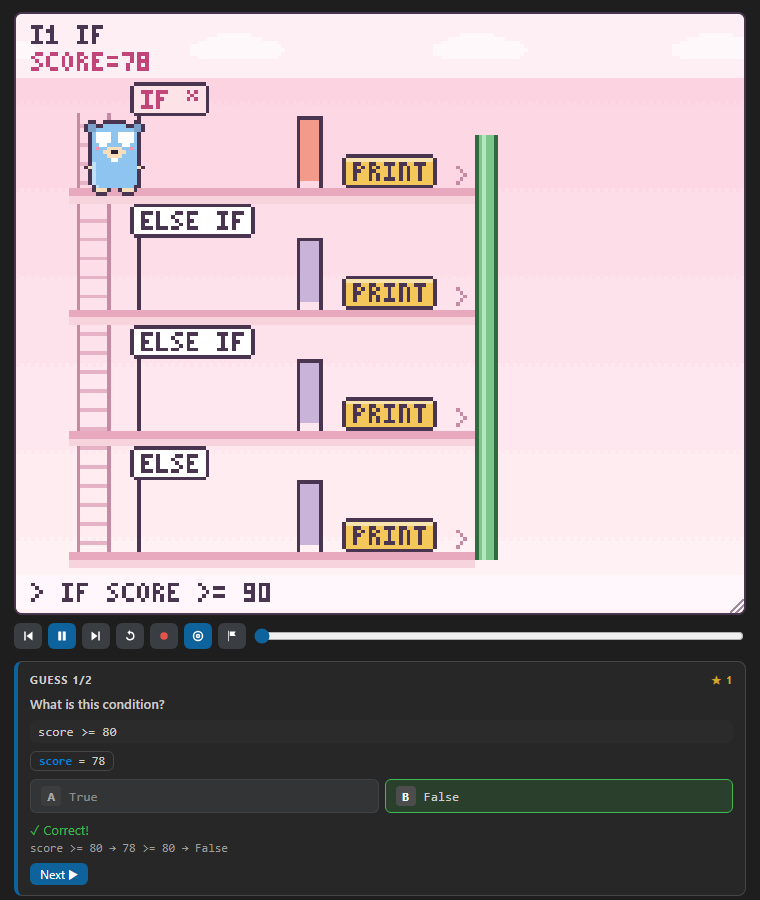
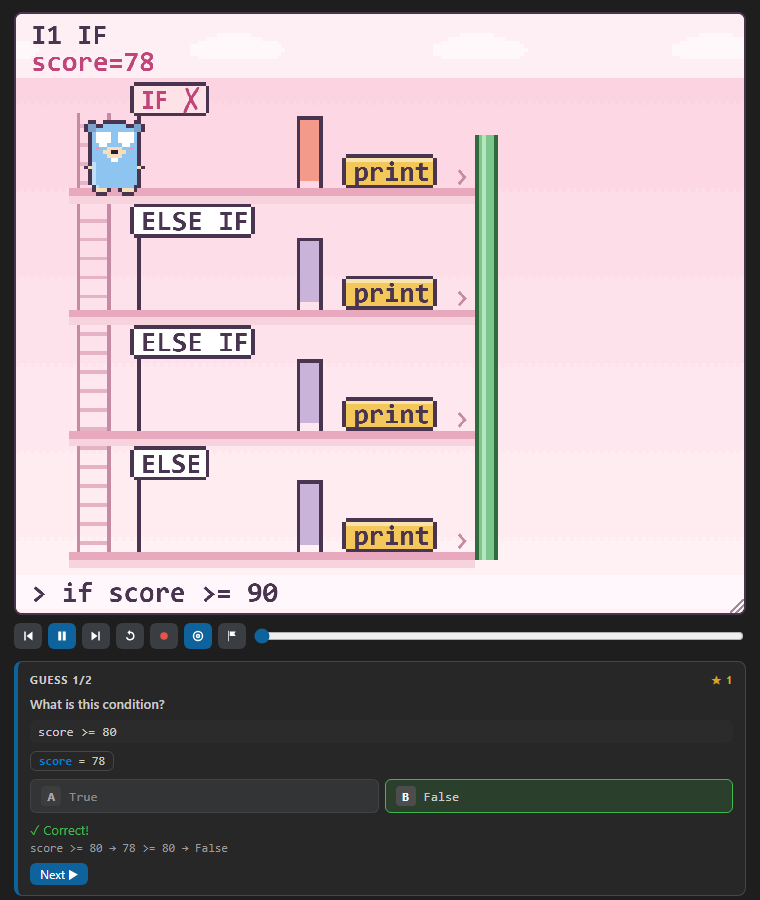
Smooth, readable text on every stage
Cubes, the Gopher and backgrounds stay pixel art, but stage text is now
drawn at full resolution in a monospace font after the world is scaled
up, and code keeps its own letter case. Shapes drawn over a text later
still hide it, so the drawing order is unchanged. Recordings follow:
GIFs are 720px wide with a palette that keeps colors true, and the demo
GIFs and screenshots are re-recorded.

diff --git a/vscode-extension/media/pixel.js b/vscode-extension/media/pixel.js
@@ -102,6 +102,10 @@
 
   const textW = s => Math.max(0, s.length * 4 - 1);
   function text(c, s, x, y, col) {
+    if (defer(c, s, x, y, col, 1)) return;
+    pixelText(c, s, x, y, col);
+  }
+  function pixelText(c, s, x, y, col) {
     c.fillStyle = col;
     s = s.toUpperCase();
     for (let i = 0; i < s.length; i++) {
@@ -111,9 +115,9 @@
     }
   }
   const textCenter = (c, s, cx, y, col) => text(c, s, Math.round(cx - textW(s) / 2), y, col);
-  /** Teks dalam huruf besar tanpa karakter yang tidak ada di font, dipotong ".." bila lebih dari max karakter. */
+  /** Teks satu baris (huruf besar/kecil dipertahankan), dipotong ".." bila lebih dari max karakter. */
   function fit(s, max) {
-    s = [...String(s).toUpperCase()].map(ch => (FONT[ch] ? ch : ch === '\t' ? ' ' : '')).join('').replace(/\s+/g, ' ').trim();
+    s = [...String(s)].map(ch => (FONT[ch.toUpperCase()] || ch > ' ' ? ch : ch === '\t' ? ' ' : '')).join('').replace(/\s+/g, ' ').trim();
     return max != null && s.length > max ? s.slice(0, Math.max(1, max - 2)) + '..' : s;
   }
 
@@ -198,6 +202,7 @@
     rect(x, 0, 0, w, h, col); rect(x, 1, 1, w - 2, h - 2, '#fff8fb');
     rect(x, 2, 2, w - 4, 1, col); rect(x, 2, h - 3, w - 4, 1, col);
     text(x, label, 4, 4, col);
+    c.__stamp = { label, col }; // drawImage ke canvas yang mendukung teks halus: label ditulis ulang halus
     return (stamps[key] = c);
   }
 
@@ -210,12 +215,16 @@
   function paintWorld(c, W, H, GY) {
     c.clearRect(0, 0, W, H);
     c.canvas.__theme = { kind: 'world', GY };
+    c.canvas.__texts = [];
   }
 
   /** Gambar latar panggung setiap frame: tema (bergerak) di bawah isi canvas latar. */
   function drawBg(w, bg) {
+    const dst = w.canvas.__texts;
+    if (dst) dst.length = 0; // latar = awal frame: teks frame sebelumnya yang belum dipresent dibuang
     if (G.theme) G.theme.drawBg(w, bg);
     else w.drawImage(bg, 0, 0);
+    if (dst && bg.__texts) for (const t of bg.__texts) dst.push(t); // teks latar (sudah di koordinat dunia)
   }
 
   /** Posisi pada jalur berbelok (daftar titik) di t = 0..1, menurut panjang lintasan. */
@@ -262,8 +271,145 @@
       ctx.fillRect(0, 0, cw, ch);
     }
     ctx.drawImage(world, 0, 0, worldW, worldH, 0, 0, cw, ch);
+    flushTexts(ctx, world, k, 0, 0, 1);
     return k;
   }
+
+  // ---------- teks halus ----------
+  // Keputusan user 2026-10-12: tulisan di panggung jangan terlalu pixel supaya mudah dibaca. Kubus, Gopher, dan
+  // latar tetap pixel art; teks yang ditulis ke canvas dunia dicatat (posisi, warna, alpha, transform) lalu
+  // digambar dengan font monospace beresolusi penuh oleh present(), sesudah dunia diperbesar. Lebar satu huruf
+  // monospace (~0.55em) hampir sama dengan lebar huruf pixel (4 piksel dunia), jadi tata letak tidak berubah.
+  // Canvas lain (cache sprite kecil) tetap memakai font pixel.
+  const MONO = 'Consolas, "Cascadia Mono", "SF Mono", Menlo, "DejaVu Sans Mono", monospace';
+
+  /** Catat teks untuk lapisan halus bila canvas c mendukungnya (dunia panggung atau latarnya). */
+  function defer(c, s, x, y, col, size) {
+    const list = c.canvas && c.canvas.__texts;
+    if (!list) return false;
+    const m = c.getTransform();
+    list.push({ s: String(s), x, y, col, size, a: c.globalAlpha, m, box: devBox(m, x, y, textW(String(s)) * size * 1.06, 5 * size) });
+    return true;
+  }
+
+  /** Kotak (x, y, w, h) di transform m (tanpa rotasi) dalam koordinat canvas: [x0, y0, x1, y1]. */
+  function devBox(m, x, y, w, h) {
+    const x0 = m.a * x + m.c * y + m.e, y0 = m.b * x + m.d * y + m.f, x1 = x0 + m.a * w, y1 = y0 + m.d * h;
+    return [Math.min(x0, x1), Math.min(y0, y1), Math.max(x0, x1), Math.max(y0, y1)];
+  }
+
+  // Urutan gambar: teks halus digambar paling akhir, jadi kotak atau sprite yang digambar SESUDAH sebuah teks
+  // dan menimpanya (tiket yang lewat, Gopher, lapisan peredup) dicatat sebagai penutup teks itu. Saat teks
+  // ditulis, bagian yang tertutup dihapus (sprite: sesuai bentuk pikselnya), seolah teks ada di bawahnya.
+  function occlude(c, x, y, w, h, img, src) {
+    const list = c.canvas.__texts;
+    if (!list || !list.length || !(Math.abs(w) >= 1 && Math.abs(h) >= 1)) return;
+    const b = devBox(c.getTransform(), x, y, w, h);
+    for (const t of list) {
+      const q = t.box;
+      if (!q || q[0] >= b[2] || b[0] >= q[2] || q[1] >= b[3] || b[1] >= q[3]) continue;
+      (t.occ || (t.occ = [])).push({ b, img, src, a: c.globalAlpha });
+    }
+  }
+  const rawFillRect = CanvasRenderingContext2D.prototype.fillRect;
+  CanvasRenderingContext2D.prototype.fillRect = function (x, y, w, h) {
+    if (this.canvas.__texts) occlude(this, x, y, w, h);
+    return rawFillRect.call(this, x, y, w, h);
+  };
+
+  /** Teks yang sebagian tertutup: tulis di canvas sementara, hapus bagian penutupnya, lalu tempel. */
+  let tmpCv = null;
+  function smoothOccluded(ctx, t, k, ox, oy, alpha) {
+    const q = t.box, M = 3, x0 = Math.floor(q[0] - M), y0 = Math.floor(q[1] - M);
+    const w = Math.ceil((q[2] - q[0] + 2 * M) * k), h = Math.ceil((q[3] - q[1] + 2 * M) * k);
+    if (!tmpCv) tmpCv = document.createElement('canvas');
+    if (tmpCv.width < w) tmpCv.width = w;
+    if (tmpCv.height < h) tmpCv.height = h;
+    const x = tmpCv.getContext('2d');
+    x.setTransform(1, 0, 0, 1, 0, 0);
+    x.globalCompositeOperation = 'source-over';
+    x.clearRect(0, 0, w, h);
+    smooth(x, t, k, -x0 * k, -y0 * k, 1);
+    x.globalCompositeOperation = 'destination-out';
+    x.imageSmoothingEnabled = false;
+    x.setTransform(k, 0, 0, k, -x0 * k, -y0 * k);
+    for (const o of t.occ) {
+      x.globalAlpha = o.a;
+      const [bx0, by0, bx1, by1] = o.b;
+      if (o.img) rawDrawImage.call(x, o.img, ...o.src, bx0, by0, bx1 - bx0, by1 - by0);
+      else x.fillRect(bx0, by0, bx1 - bx0, by1 - by0);
+    }
+    x.globalCompositeOperation = 'source-over';
+    ctx.setTransform(1, 0, 0, 1, 0, 0);
+    ctx.globalAlpha = alpha;
+    rawDrawImage.call(ctx, tmpCv, 0, 0, w, h, ox + x0 * k, oy + y0 * k, w, h);
+  }
+
+  /** Gambar satu teks halus: posisi dunia (x, y = atas huruf) di transform m, diperbesar k, digeser (ox, oy). */
+  function smooth(ctx, t, k, ox, oy, alpha) {
+    const m = t.m;
+    ctx.setTransform(m.a * k, m.b * k, m.c * k, m.d * k, ox + m.e * k, oy + m.f * k);
+    ctx.globalAlpha = t.a * alpha;
+    ctx.fillStyle = t.col;
+    ctx.font = `bold ${7.4 * t.size}px ${MONO}`;
+    const want = textW(t.s) * t.size * 1.06, got = ctx.measureText(t.s).width;
+    ctx.translate(t.x, t.y + 5 * t.size);
+    if (got > want && got > 0) ctx.scale(want / got, 1); // teks yang lebih lebar dari kotaknya dipadatkan
+    ctx.fillText(t.s, 0, 0);
+  }
+
+  /** Teks halus t di transform ctx sekarang (untuk perekam). */
+  function drawText(ctx, t) {
+    ctx.save();
+    smooth(ctx, Object.assign({}, t, { m: ctx.getTransform() }), 1, 0, 0, 1);
+    ctx.restore();
+  }
+
+  /** Tulis semua teks halus milik canvas dunia src ke ctx (dunia digambar dengan skala k di (ox, oy)). */
+  function flushTexts(ctx, src, k, ox, oy, alpha) {
+    const list = src.__texts;
+    src.__texts = [];
+    if (!list || !list.length) return;
+    ctx.save();
+    for (const t of list) {
+      if (t.occ) smoothOccluded(ctx, t, k, ox, oy, alpha);
+      else smooth(ctx, t, k, ox, oy, alpha);
+    }
+    ctx.restore();
+  }
+
+  // Stempel (DONE!, PANIC!) digambar dengan drawImage: di canvas yang mendukung teks halus, labelnya ditulis
+  // ulang halus di atas stempel (stempel memakai bingkai pixel yang sama).
+  const rawDrawImage = CanvasRenderingContext2D.prototype.drawImage;
+  CanvasRenderingContext2D.prototype.drawImage = function (img, ...a) {
+    if (this.canvas.__texts && a.length >= 2) {
+      const n = a.length, src = n === 8 ? a.slice(0, 4) : [0, 0, img.width, img.height];
+      occlude(this, n === 8 ? a[4] : a[0], n === 8 ? a[5] : a[1], n === 8 ? a[6] : n === 4 ? a[2] : img.width, n === 8 ? a[7] : n === 4 ? a[3] : img.height, img, src);
+    }
+    const st = img && img.__stamp;
+    const hiRes = st && !this.canvas.__texts && this.canvas.__k; // canvas panggung (sudah diperbesar)
+    if (!st || (!this.canvas.__texts && !hiRes)) return rawDrawImage.call(this, img, ...a);
+    const dx = a.length === 8 ? a[4] : a[0], dy = a.length === 8 ? a[5] : a[1];
+    const dw = a.length === 8 ? a[6] : a.length === 4 ? a[2] : img.width;
+    rawDrawImage.call(this, plainStamp(img), ...a);
+    const sc = dw / img.width;
+    const t = { s: st.label, x: dx + 4 * sc, y: dy + 4 * sc, col: st.col, size: sc, a: this.globalAlpha, m: this.getTransform() };
+    if (this.canvas.__texts) this.canvas.__texts.push(t);
+    else { this.save(); smooth(this, Object.assign(t, { m: new DOMMatrix() }), 1, 0, 0, 1); this.restore(); }
+  };
+  /** Stempel tanpa tulisan (bingkai saja) untuk ditimpa teks halus. */
+  function plainStamp(img) {
+    if (img.__plain) return img.__plain;
+    const c = document.createElement('canvas');
+    c.width = img.width; c.height = img.height;
+    const x = c.getContext('2d'), col = img.__stamp.col, w = img.width, h = img.height;
+    rect(x, 0, 0, w, h, col); rect(x, 1, 1, w - 2, h - 2, '#fff8fb');
+    rect(x, 2, 2, w - 4, 1, col); rect(x, 2, h - 3, w - 4, 1, col);
+    return (img.__plain = c);
+  }
+
+  /** Aktifkan teks halus untuk canvas (dunia panggung yang dipresent, adegan error). */
+  const smoothText = cv => { if (!cv.__texts) cv.__texts = []; return cv; };
 
   /** Gopher biru berdiri dengan kaki di groundY. Mengembalikan y kepala. */
   function drawGopher(c, x, groundY, face, step, alpha) {
@@ -278,6 +424,7 @@
   function paintSky(c, W, H) {
     c.clearRect(0, 0, W, H);
     c.canvas.__theme = { kind: 'sky' };
+    c.canvas.__texts = [];
   }
 
   // Warna ubin per jenis bagian body, sama dengan ikon di daftar "Isi" panel.
@@ -401,7 +548,7 @@
   }
 
   G.pixel = {
-    INK, VCOL, clamp, lerp, ease, bounce, mix, gopher, text, textW, textCenter, fit,
+    INK, VCOL, clamp, lerp, ease, bounce, mix, gopher, text, textW, textCenter, fit, smoothText, flushTexts, drawText,
     disc, ell, rect, box, dashedBox, dashedLine, bubble, stamp, paintWorld,
     along, present, drawGopher, paintSky, drawBg, tile, nodeAt, NODE_COL, wallLabel, wallLayout, drawWall, cube, cubeDepth, stmtLabel, tileRow, labelTile,
   };

diff --git a/vscode-extension/media/recorder.js b/vscode-extension/media/recorder.js
@@ -32,24 +32,29 @@
     bytes(s) { for (let i = 0; i < s.length; i++) this.out.push(s.charCodeAt(i)); }
     u16(n) { this.out.push(n & 255, (n >> 8) & 255); }
 
+    /**
+     * Indeks palet untuk warna c. Warna baru hanya masuk palet bila cukup berbeda dari semua warna yang sudah
+     * ada; warna antara (tepi teks halus, panggung yang diperkecil) memakai warna terdekat. Tanpa ini palet
+     * habis oleh gradasi di bagian atas frame pertama dan warna kubus/Gopher di bawahnya jadi pucat.
+     */
     colorIndex(c) {
       let k = this.idx.get(c);
       if (k != null) return k;
-      if (this.pal.length < 255) {
-        k = this.pal.length;
-        this.pal.push(c);
-        this.idx.set(c, k);
-        return k;
-      }
       k = this.near.get(c);
       if (k != null) return k;
       const r = c >> 16, g = (c >> 8) & 255, b = c & 255;
-      let best = 0, bd = Infinity;
+      let best = -1, bd = Infinity;
       for (let i = 0; i < this.pal.length; i++) {
         const p = this.pal[i];
         const dr = r - (p >> 16), dg = g - ((p >> 8) & 255), db = b - (p & 255);
         const d = dr * dr * 3 + dg * dg * 4 + db * db * 2;
         if (d < bd) { bd = d; best = i; }
+      }
+      if (best < 0 || (bd > GifWriter.NEAR && this.pal.length < 255)) {
+        k = this.pal.length;
+        this.pal.push(c);
+        this.idx.set(c, k);
+        return k;
       }
       this.near.set(c, best);
       return best;
@@ -156,27 +161,29 @@
   /** Ukuran keluaran: panggung saja (lebar tetap, tinggi mengikuti panggung) atau reel 9:16. */
   function frameSize(frame, format, stageW, stageH) {
     const big = format !== 'gif';
-    if (frame === 'reel') return big ? { w: 720, h: 1280 } : { w: 360, h: 640 };
-    const w = big ? 960 : 480;
+    // GIF 720 lebar (bukan 480) supaya teks halus panggung tetap tajam
+    if (frame === 'reel') return big ? { w: 720, h: 1280 } : { w: 540, h: 960 };
+    const w = big ? 960 : 720;
     let h = Math.round(w * stageH / stageW);
     if (big && h % 2) h++; // video butuh ukuran genap
     return { w, h };
   }
 
-  /** Teks pixel (font GopherViz) diperbesar k kali. */
+  /** Teks judul selebar teks pixel k kali (font halus yang sama dengan panggung). */
   function bigText(ctx, s, x, y, k, col) {
-    const c = document.createElement('canvas');
-    c.width = Math.max(1, P.textW(s)); c.height = 5;
-    P.text(c.getContext('2d'), s, 0, 0, col);
-    ctx.imageSmoothingEnabled = false;
-    ctx.drawImage(c, Math.round(x), Math.round(y), c.width * k, c.height * k);
+    ctx.save();
+    ctx.setTransform(k, 0, 0, k, Math.round(x), Math.round(y));
+    P.drawText(ctx, { s, x: 0, y: 0, col, size: 1, a: 1 });
+    ctx.restore();
   }
 
   /**
    * Menggambar satu bingkai ke ctx (w×h). info: { title, sub, code: {lines}, line, file, output }.
    */
   function compose(ctx, w, h, frame, stage, info) {
-    ctx.imageSmoothingEnabled = false;
+    // panggung diperkecil: dihaluskan supaya teks tetap terbaca (pixel art tetap tegas di skala ini)
+    ctx.imageSmoothingEnabled = true;
+    ctx.imageSmoothingQuality = 'high';
     if (frame !== 'reel') {
       ctx.fillStyle = '#fde3eb';
       ctx.fillRect(0, 0, w, h);
@@ -254,5 +261,6 @@
     ctx.fillText('GopherViz', w - 76 * u, h - 12 * u);
   }
 
+  GifWriter.NEAR = 700; // jarak warna (berbobot) yang masih dianggap sama
   G.recorder = { GifWriter, frameSize, compose };
 })(window.GV = window.GV || {});

diff --git a/vscode-extension/media/race.js b/vscode-extension/media/race.js
@@ -146,10 +146,10 @@
       c.imageSmoothingEnabled = false;
       c.fillStyle = '#fde3eb';
       c.fillRect(0, 0, W, H);
-      const K = 4; // skala teks pixel
+      const K = 4; // skala teks (1 satuan = 1 piksel dunia)
       const text = (s, x, y, col, center) => {
         c.save(); c.setTransform(K, 0, 0, K, Math.round(center ? x - (P.textW(s) * K) / 2 : x), y);
-        P.text(c, s, 0, 0, col); c.restore();
+        P.drawText(c, { s, x: 0, y: 0, col, size: 1, a: 1 }); c.restore();
       };
       const win = this.finished() ? this.winner() : null;
       this.lanes.forEach((l, k) => {

diff --git a/vscode-extension/media/errorfx.js b/vscode-extension/media/errorfx.js
@@ -21,6 +21,7 @@
   const RED = '#e5534b', PAPER = '#fff6f8';
   const world = document.createElement('canvas');
   world.width = W; world.height = H;
+  P.smoothText(world);
   const c = world.getContext('2d');
 
   const seg = (ms, a, b) => clamp((ms - a) / (b - a), 0, 1); // kemajuan 0..1 di antara a..b ms
@@ -270,6 +271,7 @@
     ctx.globalAlpha = fade;
     ctx.imageSmoothingEnabled = false;
     ctx.drawImage(world, Math.round((cw - w) / 2), Math.round((ch - h) / 2), w, h);
+    P.flushTexts(ctx, world, k, Math.round((cw - w) / 2), Math.round((ch - h) / 2), fade);
     ctx.restore();
   }
 
